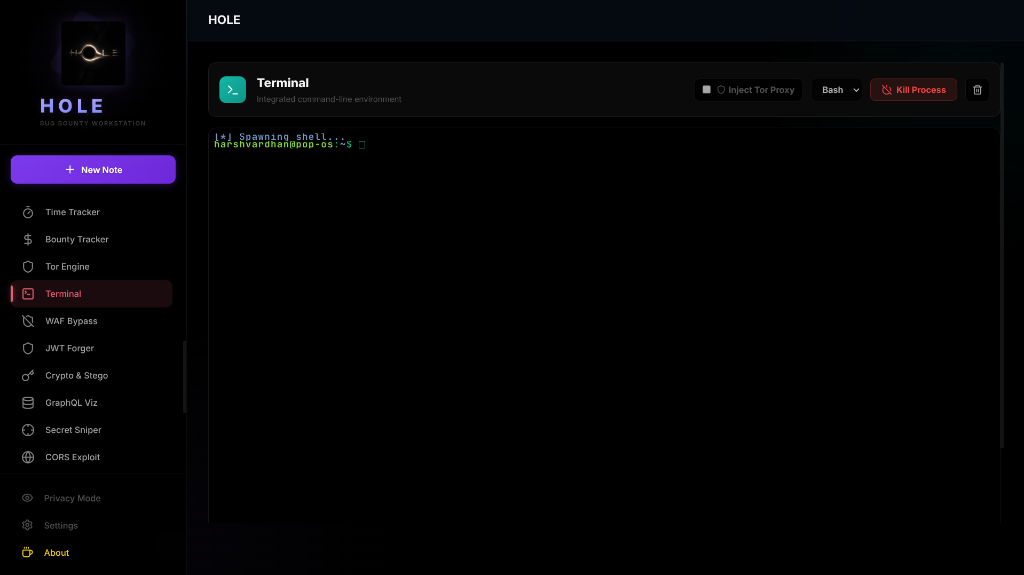
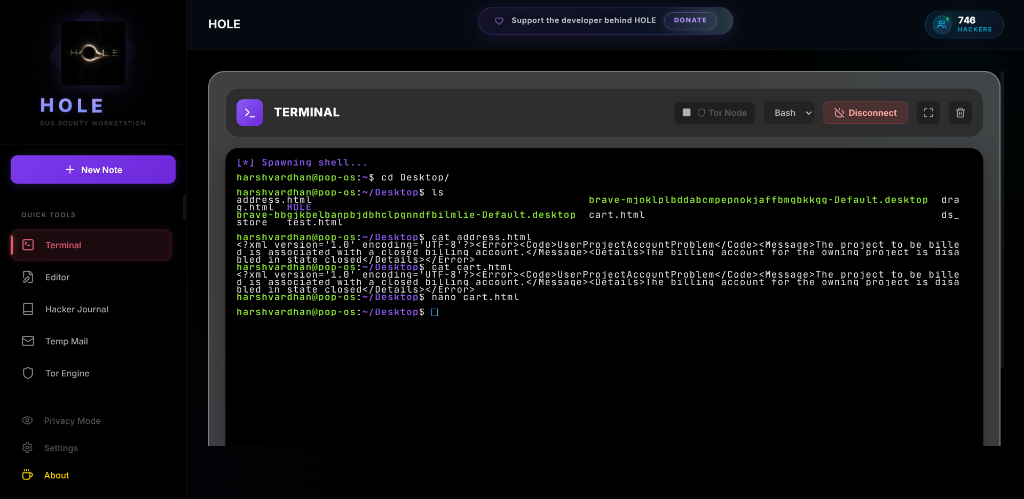
docs: update showcase gallery with new luxury UI screenshots for Terminal, Tor Engine, Code Studio, and Temp Mail

diff --git a/README.md b/README.md
@@ -205,13 +205,23 @@ npm run electron:dev
   <br/><br/>
   <img src="screenshots/tor-engine.png" width="90%" />
   <br/><br/>
+  <img src="screenshots/tor-engine-settings.png" width="90%" />
+  <br/><br/>
+  <img src="screenshots/terminal.png" width="90%" />
+  <br/><br/>
+  <img src="screenshots/terminal-fullscreen.png" width="90%" />
+  <br/><br/>
+  <img src="screenshots/terminal-nano.png" width="90%" />
+  <br/><br/>
   <img src="screenshots/code-studio.png" width="90%" />
+  <br/><br/>
+  <img src="screenshots/code-studio-preview.png" width="90%" />
+  <br/><br/>
+  <img src="screenshots/temp-mail.png" width="90%" />
   <br/><br/>
   <img src="screenshots/workflow.png" width="90%" />
   <br/><br/>
   <img src="screenshots/hacker-journal.png" width="90%" />
-  <br/><br/>
-  <img src="screenshots/terminal.png" width="90%" />
   <br/><br/>
   <img src="screenshots/pro_features/tool_js_spider.png" width="90%" />
   <br/><br/>
